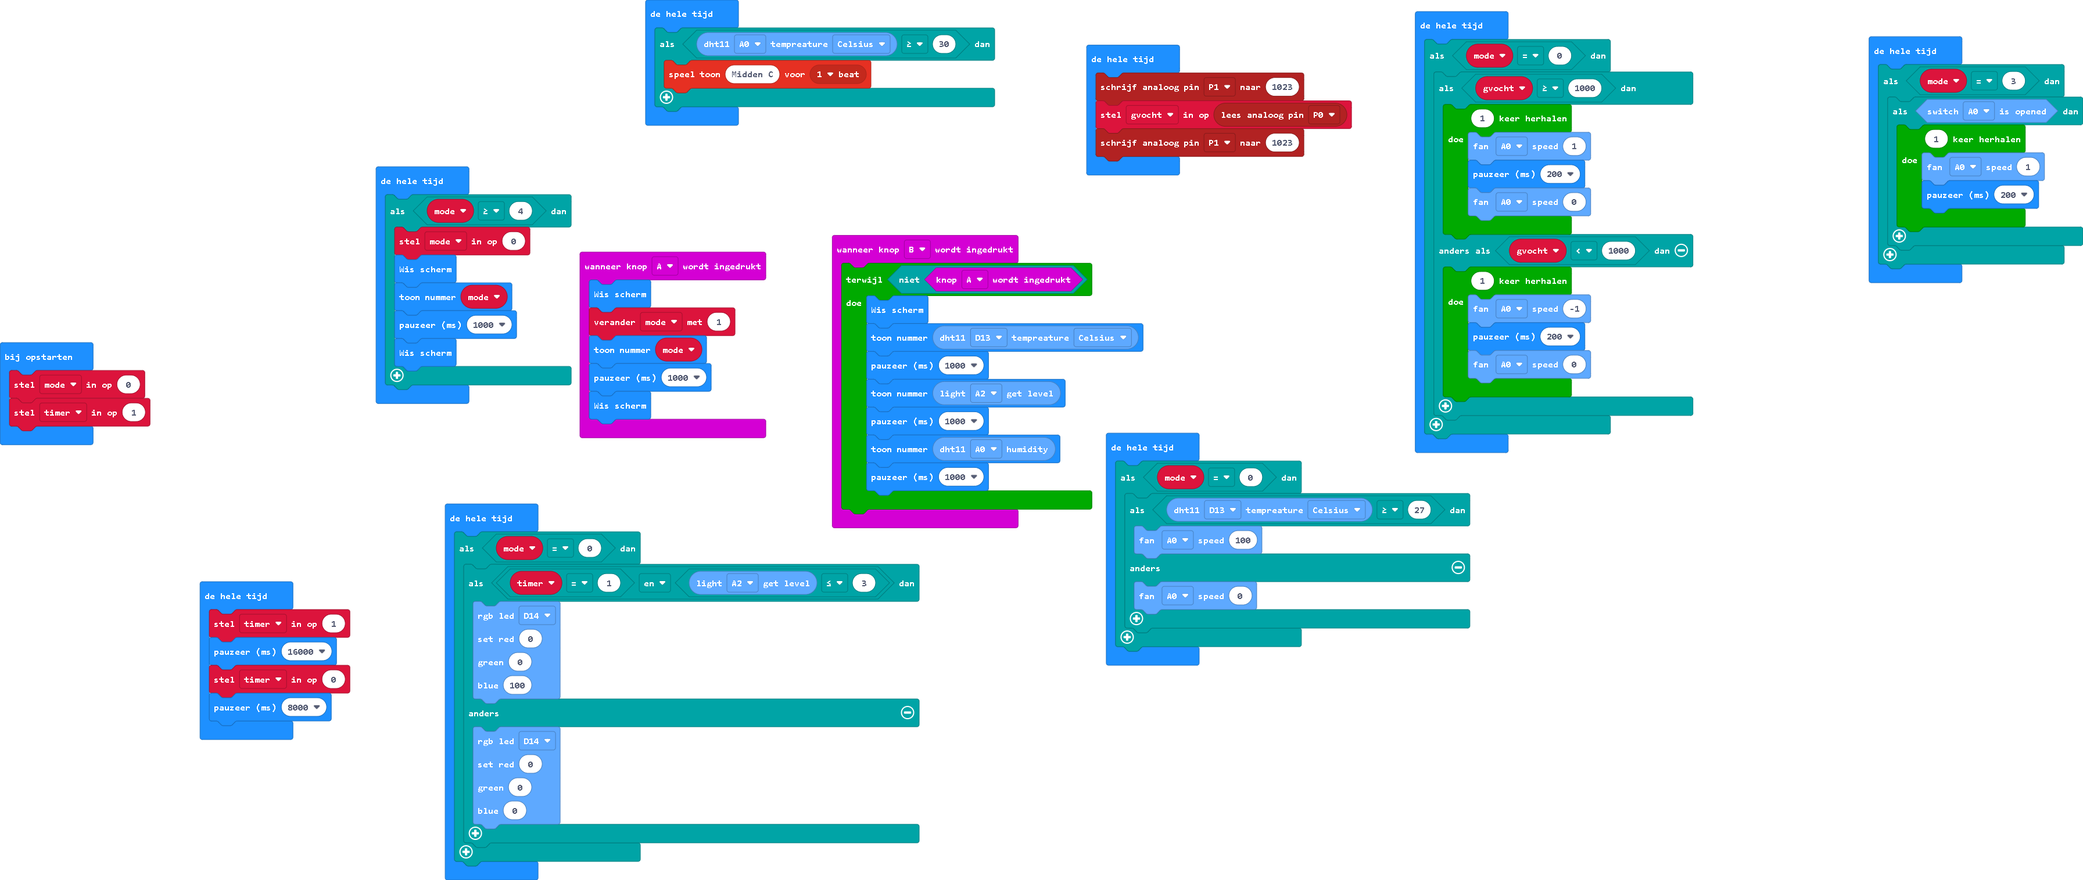
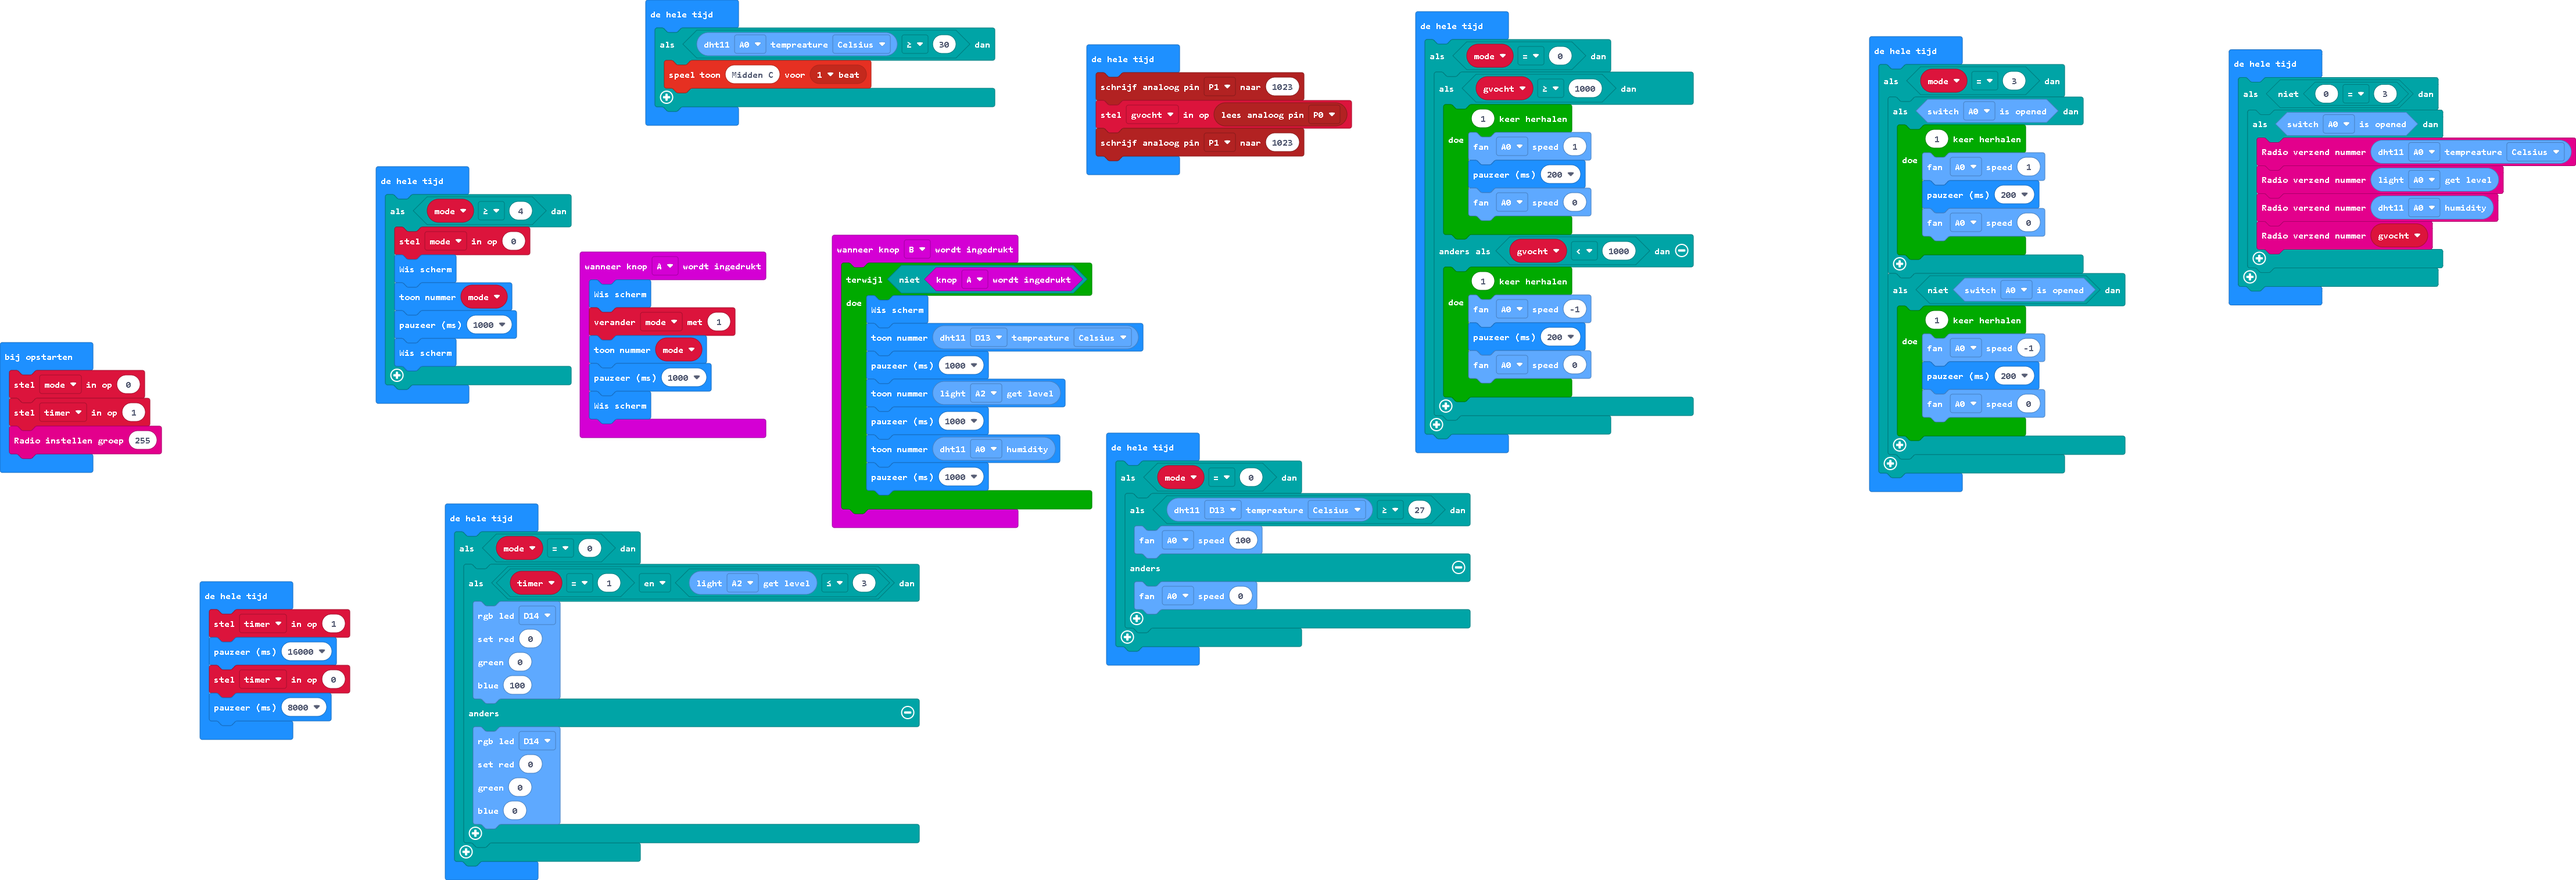
main.blocks, main.ts bijwerken

diff --git a/main.ts b/main.ts
@@ -20,6 +20,7 @@ let gvocht = 0
 let mode = 0
 mode = 0
 let timer = 1
+radio.setGroup(255)
 basic.forever(function () {
     if (minode.DHTGetTemperature(ConnName.A0, DHTTemStyle.MINODE_DHT_CELSIUS) >= 30) {
         music.playTone(262, music.beat(BeatFraction.Whole))
@@ -53,7 +54,25 @@ basic.forever(function () {
             for (let index = 0; index < 1; index++) {
                 minode.FanControl_1(AnalogConnName.Analog_A0, 1)
                 basic.pause(200)
+                minode.FanControl_1(AnalogConnName.Analog_A0, 0)
             }
+        }
+        if (!(minode.switchIsOpened(ConnName.A0))) {
+            for (let index = 0; index < 1; index++) {
+                minode.FanControl_1(AnalogConnName.Analog_A0, -1)
+                basic.pause(200)
+                minode.FanControl_1(AnalogConnName.Analog_A0, 0)
+            }
+        }
+    }
+})
+basic.forever(function () {
+    if (!((0 as any) == (3 as any))) {
+        if (minode.switchIsOpened(ConnName.A0)) {
+            radio.sendNumber(minode.DHTGetTemperature(ConnName.A0, DHTTemStyle.MINODE_DHT_CELSIUS))
+            radio.sendNumber(minode.LightSensorGetLevel(AnalogConnName.Analog_A0))
+            radio.sendNumber(minode.DHTGetHumidity(ConnName.A0))
+            radio.sendNumber(gvocht)
         }
     }
 })
